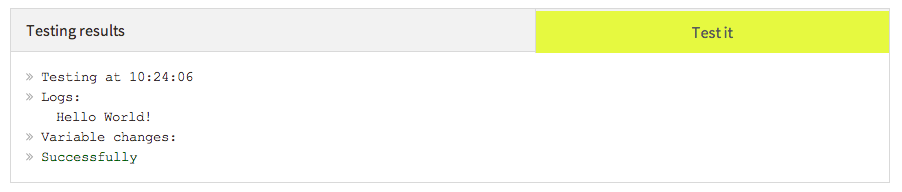
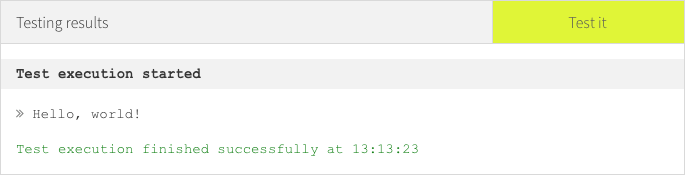
#1906 Document JS request and updating variables

diff --git a/docs/action-types/javascript.rst b/docs/action-types/javascript.rst
@@ -4,8 +4,6 @@ JavaScript action
 The JavaScript action allows developers to run a JavaScript to the process execution.
 After creating or selecting a JavaScript action, the configuration panel looks like this:
 
-.. TODO update screenshot
-
 .. figure:: /_static/images/action-types/javascript/javascript-1.png
 
    JavaScript configuration panel
@@ -17,8 +15,6 @@ The lower section allows you to test the script.
 Click `Test it` to execute the JavaScript code.
 The results are displayed underneath:
 
-.. TODO update screenshot
-
 .. figure:: /_static/images/action-types/javascript/javascript-2.png
 
    JavaScript test output
@@ -26,15 +22,11 @@ The results are displayed underneath:
 Next, we'll show how to work with data.
 Suppose there is a form elsewhere in the process that has each type of field and looks like this:
 
-.. TODO update screenshot
-
 .. figure:: /_static/images/action-types/javascript/javascript-3.png
 
    Form taking input for JavaScript
 
 When you open the JavaScript configuration again, you'll see the variables section shows some of the form field variables.
-
-.. TODO update screenshot
 
 .. figure:: /_static/images/action-types/javascript/javascript-4.png
 
@@ -51,8 +43,49 @@ Here you see all fields with a test value.
 
 When clicking `Test it` again, we can see the JSON structure of the variable data for the different variable types.
 
-.. TODO update screenshot
-
 .. figure:: /_static/images/action-types/javascript/javascript-7.png
 
    JavaScript JSON values
+
+You can use these variables to send data to an external web service, 
+using the `request module <https://github.com/mikeal/request/blob/master/README.md>`_.
+For example, the following script sends the value of the ``startDate`` variable
+in an HTTP POST request to an external web service. ::
+
+	var requestBody = { "startDate" : startDate };
+
+	request.post( {
+		url: 'http://www.mocky.io/v2/55798e08bdbf280d0d423cb8', 
+		body: JSON.stringify(requestBody),
+		headers: { 'Content-Type': 'application/json' }
+	  },
+	  function (error, response, responseBody) {
+		var log = "HTTP " + response.statusCode + "\n" + responseBody;
+		if (!error && response.statusCode === 200) {
+		  console.info(log);
+		  var responseData = JSON.parse(responseBody);
+		  startDate = responseData.startDate;
+		}
+		else {
+		  console.error(log);
+		}
+	  }
+	);
+
+This example uses a test endpoint configured using `Mocky <http://www.mocky.io/>`_
+to return an HTTP response.
+This has the following result in the Effektif test console:
+
+.. figure:: /_static/images/action-types/javascript/javascript-8.png
+
+   Updating a variable via an external web service
+
+The two log statements, starting with *HTTP 200*, 
+show the HTTP response from the web service.
+The response body (as set-up in Mocky) is JSON data that includes 
+an updated value for the ``startDate`` variable,
+changing the date from ``2015-06-15`` to ``2015-06-16``.
+
+The script then parses this JSON response using ``JSON.parse``
+and updates the ``startDate`` variable in Effektif,
+as shown in the *Updated value* column in the test console’s variables table.
